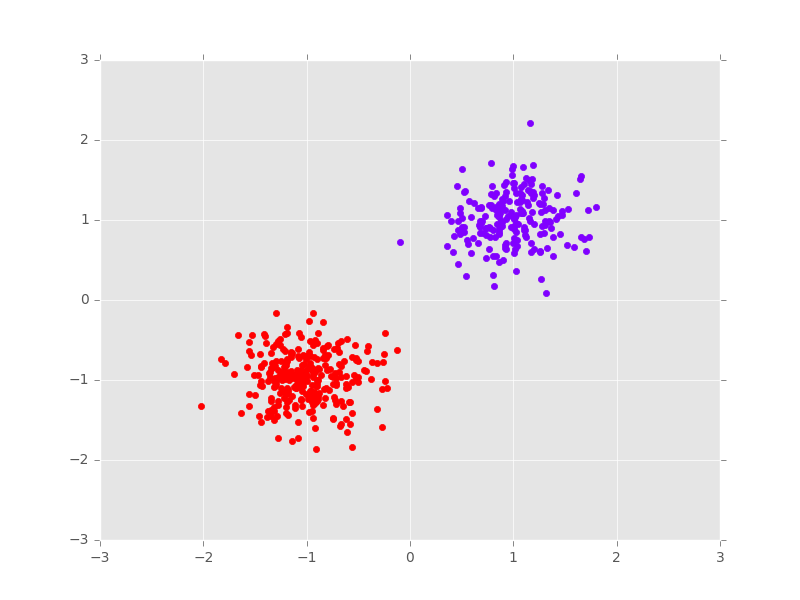
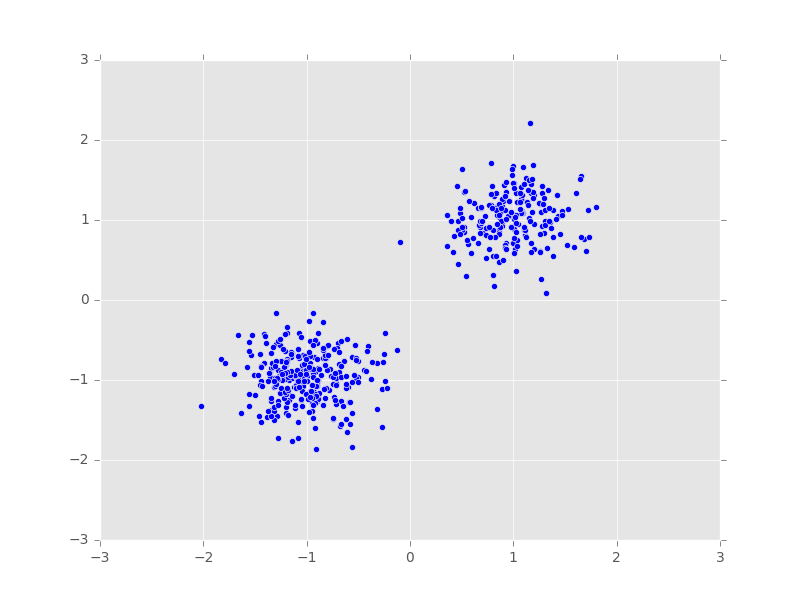
Update documentation

Changed region(s): [[0.2812, 0.51, 0.5, 0.75], [0.5625, 0.27, 0.75, 0.48]]

diff --git a/tut_unsupervised.html b/tut_unsupervised.html
@@ -102,15 +102,18 @@
     mus = [[1, 1], [-1, -1]]
     stds = [[0.1, 0.1], [0.1, 0.1]]
     x = np.zeros((N, 2), dtype=np.float32)
-    colors = cm.rainbow(np.linspace(0, 1, 2))
     for n in range(N):
         k = np.argmax(np.random.multinomial(1, pi))
         x[n, :] = np.random.multivariate_normal(mus[k], np.diag(stds[k]))
-        plt.scatter(x[n, 0], x[n, 1], color=colors[k])
 
-    plt.show()
-    return {&#39;x&#39;: x}</code></pre>
-<p>We visualize the generated data points, colored by their cluster membership. <img src="images/unsupervised-fig0.png" alt="image" width="700" /></p>
+    return {&#39;x&#39;: x}
+
+data = build_toy_dataset(500)</code></pre>
+<p>We visualize the generated data points.</p>
+<pre class="python" language="Python"><code>plt.scatter(data[&#39;x&#39;][:, 0], data[&#39;x&#39;][:, 1])
+plt.axis([-3, 3, -3, 3])
+plt.show()</code></pre>
+<p><img src="images/unsupervised-fig0.png" alt="image" width="700" /></p>
 <h3 id="model">Model</h3>
 <p>Posit the model as a mixture of Gaussians. For more details on the model, see the <a href="tut_mixture_gaussian">Mixture of Gaussians tutorial</a>.</p>
 <p>Here we build the model in Edward using TensorFlow, and set the number of mixture components to be 2.</p>
@@ -182,10 +185,38 @@ model = MixtureGaussian(K=2, D=2)</code></pre>
 variational.add(Dirichlet(model.K))
 variational.add(Normal(model.K*model.D))
 variational.add(InvGamma(model.K*model.D))</code></pre>
-<p>Run mean-field variational inference for 500 iterations, using a batch of 5 datapoints and 5 latent variable samples per iteration.</p>
+<p>Run mean-field variational inference for 4000 iterations, using a batch of 10 datapoints and 50 latent variable samples per iteration.</p>
 <pre class="python" language="Python"><code>inference = ed.MFVI(model, variational, data)
-inference.run(n_iter=500, n_samples=5, n_minibatch=5)</code></pre>
+inference.run(n_iter=4000, n_samples=50, n_minibatch=10)</code></pre>
 <p>In this case <code>MFVI</code> defaults to minimizing the <span class="math inline">\(\text{KL}(q\|p)\)</span> divergence measure using the score function gradient. For more details on inference, see the <a href="tut_KLqp"><span class="math inline">\(\text{KL}(q\|p)\)</span> tutorial</a>.</p>
+<h3 id="criticism">Criticism</h3>
+<p>We visualize the predicted memberships of each data point. We pick the cluster assignment which produces the highest log-likelihood for each data point. First we output a K x N matrix of log-likelihoods, per per-cluster assignment <span class="math inline">\(k\)</span> and per data-point <span class="math inline">\(\mathbf{x}_n\)</span>.</p>
+<p>We do this by adding the <code>predict()</code> method in the probability model.</p>
+<pre class="python" language="Python"><code>class MixtureGaussian:
+    ...
+    def predict(self, xs, zs):
+        &quot;&quot;&quot;Return matrix with log-likelihoods for each data point under each cluster,
+        averaging over each set of latent variables z in zs.&quot;&quot;&quot;
+        x = xs[&#39;x&#39;]
+        pi, mus, sigmas = zs
+        pi = tf.reduce_mean(pi, 0)
+        mus = tf.reduce_mean(mus, 0)
+        sigmas = tf.reduce_mean(sigmas, 0)
+
+        matrix = []
+        for k in range(self.K):
+            matrix += [multivariate_normal.logpdf(x,
+                               mus[(k*self.D):((k+1)*self.D)],
+                               sigmas[(k*self.D):((k+1)*self.D)])]
+
+        return tf.pack(matrix)</code></pre>
+<p>Then we evaluate the log-likelihood on the training data and take the <span class="math inline">\(\arg\max\)</span> along the rows.</p>
+<pre class="python" language="Python"><code>clusters = np.argmax(ed.evaluate(&#39;log_likelihood&#39;, model, variational, data), axis=0)</code></pre>
+<p>Plot the data points, colored by their predicted membership.</p>
+<pre class="python" language="Python"><code>plt.scatter(data[&#39;x&#39;][:, 0], data[&#39;x&#39;][:, 1], c=clusters, cmap=cm.bwr)
+plt.axis([-3, 3, -3, 3])
+plt.show()</code></pre>
+<p><img src="images/unsupervised-fig1.png" alt="image" width="700" /></p>
     </div>
   </div>
   <div class="row" style="padding-bottom: 25%"> </div>

diff --git a/tex/tut_unsupervised.tex b/tex/tut_unsupervised.tex
@@ -23,17 +23,21 @@ def build_toy_dataset(N):
     mus = [[1, 1], [-1, -1]]
     stds = [[0.1, 0.1], [0.1, 0.1]]
     x = np.zeros((N, 2), dtype=np.float32)
-    colors = cm.rainbow(np.linspace(0, 1, 2))
     for n in range(N):
         k = np.argmax(np.random.multinomial(1, pi))
         x[n, :] = np.random.multivariate_normal(mus[k], np.diag(stds[k]))
-        plt.scatter(x[n, 0], x[n, 1], color=colors[k])
 
-    plt.show()
     return {'x': x}
+
+data = build_toy_dataset(500)
 \end{lstlisting}
 
-We visualize the generated data points, colored by their cluster membership.
+We visualize the generated data points.
+\begin{lstlisting}[language=Python]
+plt.scatter(data['x'][:, 0], data['x'][:, 1])
+plt.axis([-3, 3, -3, 3])
+plt.show()
+\end{lstlisting}
 \includegraphics[width=700px]{images/unsupervised-fig0.png}
 
 \subsubsection{Model}
@@ -137,11 +141,11 @@ variational.add(Normal(model.K*model.D))
 variational.add(InvGamma(model.K*model.D))
 \end{lstlisting}
 
-Run mean-field variational inference for 500 iterations, using a batch
-of 5 datapoints and 5 latent variable samples per iteration.
+Run mean-field variational inference for 4000 iterations, using a batch
+of 10 datapoints and 50 latent variable samples per iteration.
 \begin{lstlisting}[language=Python]
 inference = ed.MFVI(model, variational, data)
-inference.run(n_iter=500, n_samples=5, n_minibatch=5)
+inference.run(n_iter=4000, n_samples=50, n_minibatch=10)
 \end{lstlisting}
 In this case
 \texttt{MFVI} defaults to minimizing the
@@ -150,13 +154,47 @@ gradient.
 For more details on inference, see the \href{tut_KLqp}{$\text{KL}(q\|p)$ tutorial}.
 
 
-%\subsubsection{Criticism}
+\subsubsection{Criticism}
 
-%We visualize the predicted memberships of each data point.
-%We pick the cluster assignment which produces
-%the highest log-likelihood for each data point.
-%First we output a K x N matrix of log-likelihoods, per
-%per-cluster assignment $k$ and per data-point $\mathbf{x}_n$. Then
-%take the $\arg\max$ along the rows.
+We visualize the predicted memberships of each data point.
+We pick the cluster assignment which produces
+the highest log-likelihood for each data point.
+First we output a K x N matrix of log-likelihoods, per
+per-cluster assignment $k$ and per data-point $\mathbf{x}_n$.
 
-%\includegraphics[width=700px]{images/unsupervised-fig1.png}
+We do this by adding the \texttt{predict()} method in the
+probability model.
+\begin{lstlisting}[language=Python]
+class MixtureGaussian:
+    ...
+    def predict(self, xs, zs):
+        """Return matrix with log-likelihoods for each data point under each cluster,
+        averaging over each set of latent variables z in zs."""
+        x = xs['x']
+        pi, mus, sigmas = zs
+        pi = tf.reduce_mean(pi, 0)
+        mus = tf.reduce_mean(mus, 0)
+        sigmas = tf.reduce_mean(sigmas, 0)
+
+        matrix = []
+        for k in range(self.K):
+            matrix += [multivariate_normal.logpdf(x,
+                               mus[(k*self.D):((k+1)*self.D)],
+                               sigmas[(k*self.D):((k+1)*self.D)])]
+
+        return tf.pack(matrix)
+\end{lstlisting}
+Then we evaluate the log-likelihood on the training data
+and take the $\arg\max$ along the rows.
+\begin{lstlisting}[language=Python]
+clusters = np.argmax(ed.evaluate('log_likelihood', model, variational, data), axis=0)
+\end{lstlisting}
+
+Plot the data points, colored by their predicted membership.
+\begin{lstlisting}[language=Python]
+plt.scatter(data['x'][:, 0], data['x'][:, 1], c=clusters, cmap=cm.bwr)
+plt.axis([-3, 3, -3, 3])
+plt.show()
+\end{lstlisting}
+
+\includegraphics[width=700px]{images/unsupervised-fig1.png}
